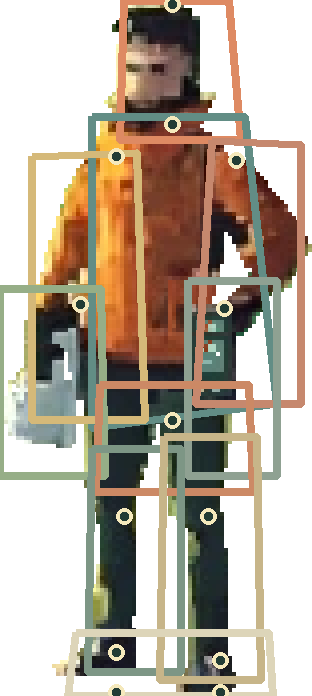
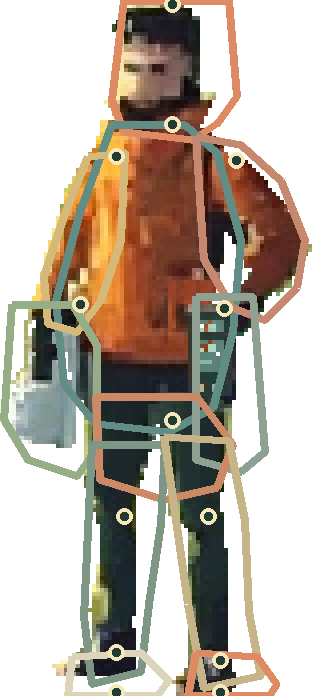
refactor(character): trace pixel-native layer boundaries

Changed region(s): [[0.0, 0.0, 1.0, 1.0]]

diff --git a/prototypes/visual-direction/pixel-native-master-v01.html b/prototypes/visual-direction/pixel-native-master-v01.html
@@ -18,10 +18,10 @@
   <p class="status"><strong>当前状态：身份与边界试验。</strong> 还不是可动角色。三维母版只保留作体积和装备关系参考；最终像素层必须在原生尺寸读成同一个人。</p>
   <section aria-labelledby="proof-heading">
     <h2 id="proof-heading">原生尺寸与边界图</h2>
-    <p>左图是 78 × 174 原生像素；右图为 4 倍工作图，彩色框是待清理的分层边界和锚点。</p>
+    <p>左图是 78 × 174 原生像素；右图为 4 倍工作图，彩色轮廓是贴近原生像素的分层边界和锚点。</p>
     <div class="proof">
       <figure><div class="surface"><img class="native" src="pixel-native-master-v01/reference-1x.png" width="78" height="174" alt="原画人物原生像素尺寸。"></div><figcaption><strong>身份底图 / 锁定</strong><span>保持头脸、肩胯、衣装、装备和光色。</span></figcaption></figure>
-      <figure><div class="surface"><img class="map" src="pixel-native-master-v01/layer-map-4x.png" width="312" height="696" alt="像素原生分层边界与锚点图。"></div><figcaption><strong>工作边界 / 未通过</strong><span>矩形框只用于定位，后续要沿轮廓清理。</span></figcaption></figure>
+      <figure><div class="surface"><img class="map" src="pixel-native-master-v01/layer-map-4x.png" width="312" height="696" alt="像素原生分层边界与锚点图。"></div><figcaption><strong>工作边界 / 轮廓初稿</strong><span>已从矩形定位改为贴合轮廓；遮挡处仍需补绘和拆层。</span></figcaption></figure>
     </div>
   </section>
   <section aria-labelledby="layer-heading">
@@ -29,7 +29,7 @@
     <ul class="layers">
       <li>头发、脸与颈根</li><li>衣身与衣摆</li><li>携箱侧上臂、前臂与手</li><li>记录器侧上臂、前臂与手</li><li>工具箱与记录器</li><li>骨盆</li><li>左右大腿、小腿与鞋</li><li>左右脚底接触点</li>
     </ul>
-    <p>锚点记录在 <a href="pixel-native-master-v01/manifest.json">manifest.json</a>；可编辑源在 <a href="pixel-native-master-v01/pixel-native-master-v01.ora">OpenRaster 文件</a>。底图仍保留在最下层，便于逐层清理后逐步关闭。</p>
+    <p>锚点记录在 <a href="pixel-native-master-v01/manifest.json">manifest.json</a>；可编辑源在 <a href="pixel-native-master-v01/pixel-native-master-v01.ora">OpenRaster 文件</a>。底图仍保留在最下层，便于逐层清理后逐步关闭；当前合成图已与原画逐像素一致。</p>
   </section>
   <section class="assessment" aria-labelledby="next-heading">
     <h2 id="next-heading">下一道门槛</h2>

diff --git a/scripts/build-pixel-native-master.py b/scripts/build-pixel-native-master.py
@@ -10,6 +10,7 @@ import hashlib
 import io
 import json
 import zipfile
+import argparse
 from pathlib import Path
 from xml.etree.ElementTree import Element, SubElement, tostring
 
@@ -21,16 +22,20 @@ OUT = ROOT / 'prototypes/visual-direction/pixel-native-master-v01'
 SCALE = 4
 
 LAYERS = {
-    'head_face_hair': [(31, 0), (57, 0), (60, 35), (30, 35)],
-    'coat_torso': [(23, 29), (61, 29), (69, 101), (23, 107)],
-    'arm_carrying_toolbox': [(8, 39), (34, 38), (36, 105), (8, 105)],
-    'arm_recorder_side': [(53, 35), (75, 36), (75, 101), (49, 101)],
-    'toolbox': [(0, 72), (25, 72), (26, 119), (0, 119)],
-    'recorder': [(47, 70), (69, 70), (69, 119), (47, 119)],
-    'pelvis': [(25, 96), (62, 96), (63, 123), (24, 123)],
-    'leg_image_left': [(23, 112), (45, 112), (45, 168), (22, 168)],
-    'leg_image_right': [(41, 109), (64, 109), (65, 170), (40, 170)],
-    'shoes_and_contact': [(19, 158), (67, 158), (68, 174), (17, 174)],
+    # These are native-pixel contour guides, not rectangular crops. They are
+    # intentionally conservative at occlusions; the identity underlay stays
+    # available until hidden anatomy is painted.
+    'head_face_hair': [(31, 0), (57, 0), (59, 24), (54, 31), (48, 35), (31, 33), (28, 25)],
+    'coat_torso': [(28, 31), (46, 31), (54, 38), (60, 60), (58, 83), (53, 102), (42, 108), (24, 106), (16, 96), (14, 75), (20, 53)],
+    'arm_carrying_toolbox': [(22, 39), (31, 38), (30, 60), (25, 75), (19, 83), (12, 81), (11, 69), (16, 54)],
+    'arm_recorder_side': [(49, 34), (60, 36), (70, 45), (76, 60), (74, 72), (66, 80), (58, 77), (51, 65)],
+    'toolbox': [(3, 76), (18, 76), (24, 86), (24, 112), (19, 119), (7, 115), (1, 105)],
+    'recorder': [(49, 74), (63, 74), (66, 113), (60, 118), (49, 115)],
+    'pelvis': [(24, 99), (49, 99), (58, 111), (54, 122), (41, 125), (25, 120)],
+    'leg_image_left': [(23, 111), (41, 111), (40, 131), (37, 151), (35, 168), (23, 171), (21, 154)],
+    'leg_image_right': [(41, 109), (57, 110), (61, 130), (62, 153), (65, 169), (51, 172), (47, 151)],
+    'shoe_image_left': [(18, 164), (35, 163), (42, 170), (39, 174), (17, 174)],
+    'shoe_image_right': [(49, 163), (64, 164), (69, 171), (67, 174), (47, 174)],
 }
 
 ANCHORS = {
@@ -78,8 +83,11 @@ def write_ora(path: Path, width: int, height: int, layers: list[tuple[str, Image
         archive.writestr('stack.xml', tostring(root, encoding='utf-8'))
 
 def main() -> None:
+    parser = argparse.ArgumentParser()
+    parser.add_argument('--refresh', action='store_true', help='rewrite this study directory in place')
+    args = parser.parse_args()
     OUT.mkdir(parents=True, exist_ok=True)
-    if any(OUT.iterdir()):
+    if any(OUT.iterdir()) and not args.refresh:
         raise FileExistsError(f'Keep an existing pixel master intact: {OUT}')
     source = Image.open(SOURCE).convert('RGBA')
     if source.size != (156, 348):

diff --git a/scripts/check-pixel-native-master.py b/scripts/check-pixel-native-master.py
@@ -1,0 +1,34 @@
+"""Check that the pixel-native study keeps its locked identity composite."""
+from __future__ import annotations
+
+import hashlib
+import io
+import json
+import zipfile
+from pathlib import Path
+
+from PIL import Image
+
+ROOT = Path(__file__).resolve().parents[1]
+STUDY = ROOT / 'prototypes/visual-direction/pixel-native-master-v01'
+
+manifest = json.loads((STUDY / 'manifest.json').read_text(encoding='utf8'))
+source = ROOT / manifest['source']
+reference = Image.open(STUDY / 'reference-4x.png').convert('RGBA')
+if hashlib.sha256(source.read_bytes()).hexdigest() != manifest['sourceSha256']:
+    raise SystemExit('SOURCE_HASH_MISMATCH')
+with zipfile.ZipFile(STUDY / 'pixel-native-master-v01.ora') as archive:
+    merged = Image.open(io.BytesIO(archive.read('mergedimage.png'))).convert('RGBA')
+    if merged.size != reference.size or merged.tobytes() != reference.tobytes():
+        raise SystemExit('COMPOSITE_CHANGED')
+    stack = archive.read('stack.xml').decode('utf8')
+    for name in manifest['layerNames']:
+        if f'name="{name}"' not in stack:
+            raise SystemExit(f'MISSING_LAYER:{name}')
+print(json.dumps({
+    'status': 'ok',
+    'sourceSha256': manifest['sourceSha256'],
+    'canvas': list(reference.size),
+    'layers': len(manifest['layerNames']),
+    'compositeMatchesReference': True,
+}, ensure_ascii=False))
